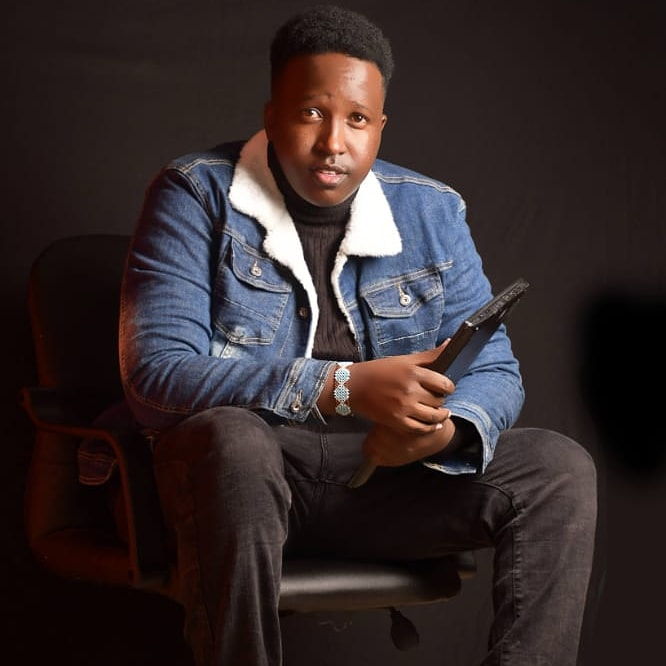
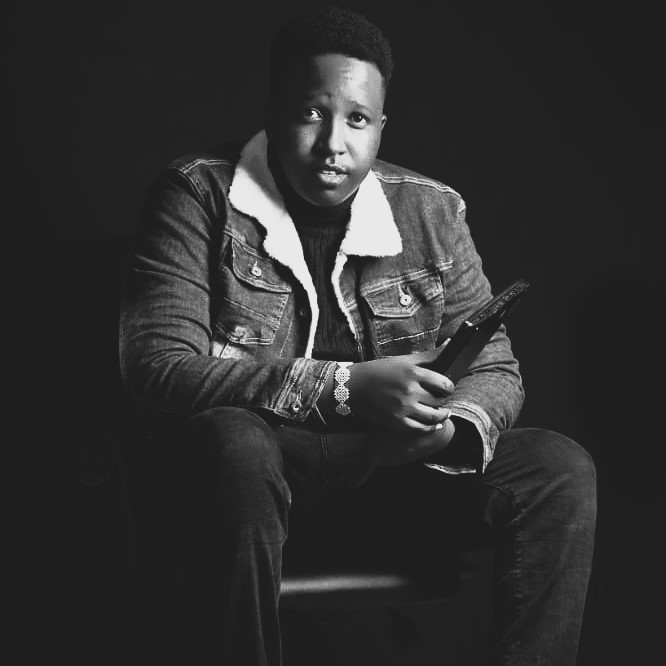
image

diff --git a/index.html b/index.html
@@ -116,7 +116,7 @@
 		<div class="row">
 				<div class="about-img">
 					<div class="img-box inner-shadow">
-						<img src="guyo.jpg" class="outer-shadow" alt="profile-pic">
+						<img src="lap.jpg" class="outer-shadow" alt="profile-pic">
 					</div>
 			
 				<!-- social link--->
